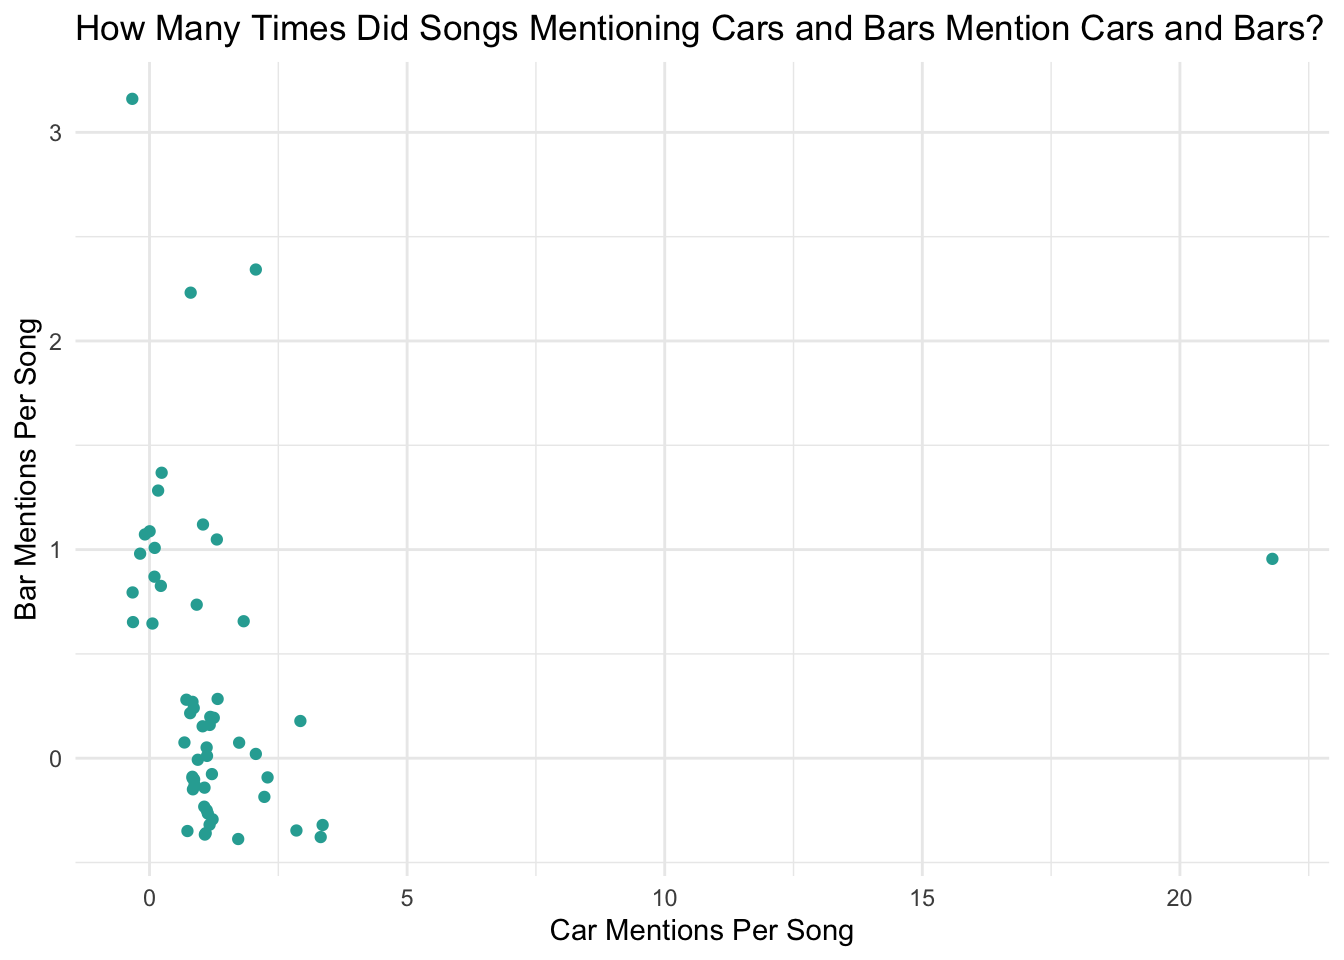
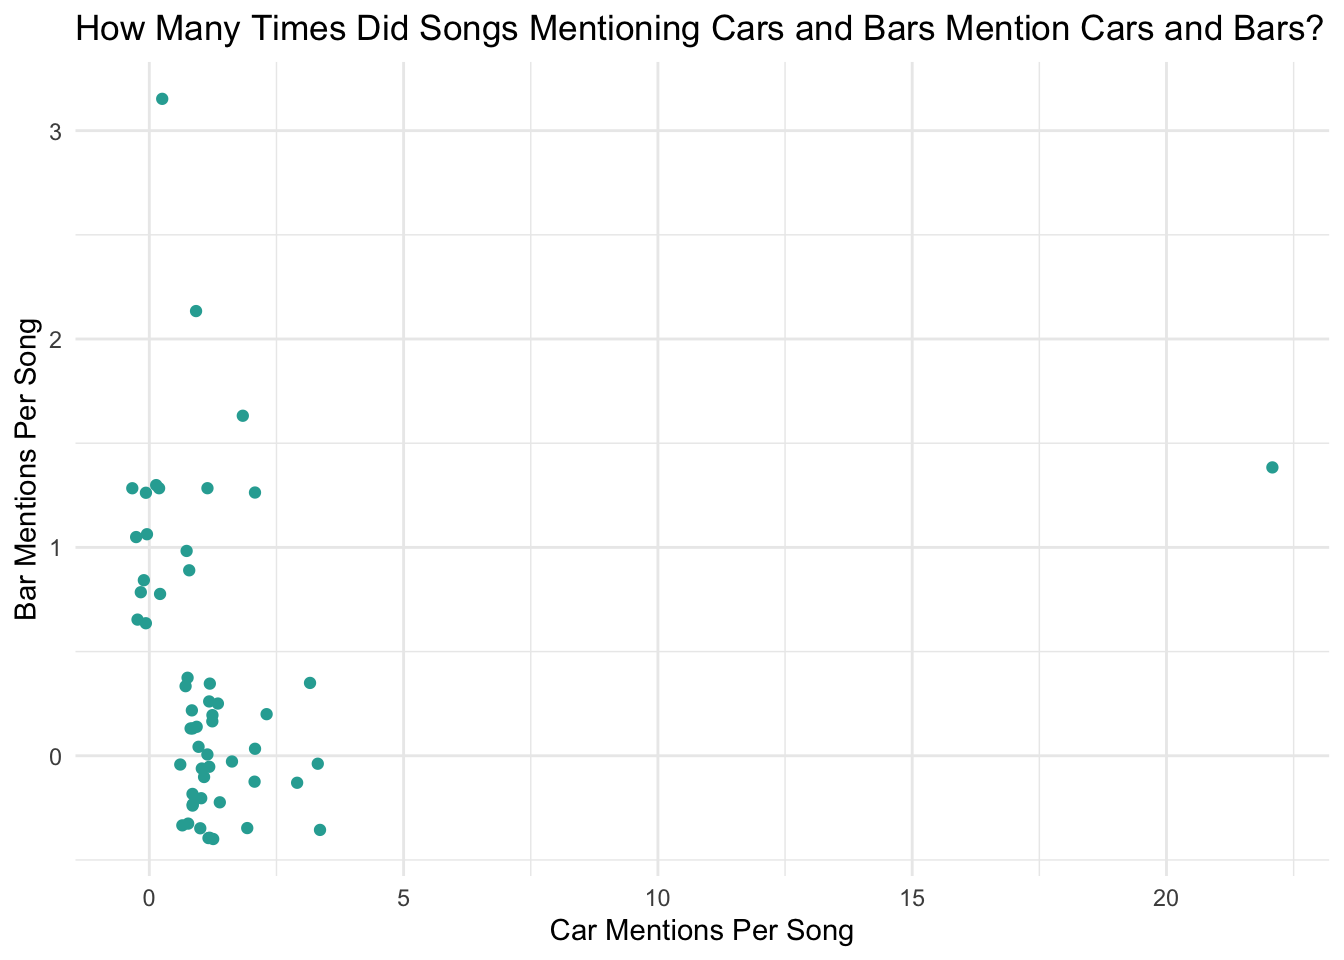
I'm realizing the 4 paragraphs might not've been per item...

diff --git a/docs/project4.html b/docs/project4.html
@@ -107,6 +107,10 @@ ul.task-list li input[type="checkbox"] {
     <a class="nav-link" href="./project3.html"> 
 <span class="menu-text">Avoiding Meat at Pomona</span></a>
   </li>  
+  <li class="nav-item">
+    <a class="nav-link active" href="./project4.html" aria-current="page"> 
+<span class="menu-text">Emotional Contagion Test Ethics</span></a>
+  </li>  
   <li class="nav-item dropdown ">
     <a class="nav-link dropdown-toggle" href="#" id="nav-menu-data-viz" role="link" data-bs-toggle="dropdown" aria-expanded="false">
  <span class="menu-text">Data Viz</span>
@@ -157,22 +161,40 @@ ul.task-list li input[type="checkbox"] {
 
 
 <p><strong>Introduction</strong></p>
-<p>In 2012, “emotional contagion” was a well-documented phenomenon where people would transfer positive or negative emotions to each other through in-person interactions, without either person necessarily being aware of this transfer. As social media was becoming more mainstream, in January 2012, Facebook was interested in if emotional contagion could be spread through news feeds on their platform, without the need for in-person interactions.</p>
-<p>To investigate this, Facebook ran an experiment to test how reducing either positive or negative content on someone’s news feed affected the content that they posted. Facebook randomly selected 689,003 users to run two parallel experiments. Half of the users were used for the first experiment. Half of this experiment’s users were in the treatment group, where a user’s friends’ posts with at least one positive word had a 90% chance of not showing up on the user’s feed, and a user’s friends’ posts with at least one negative word had a 10% chance of not showing up on the user’s feed. The other half were the control group, where a similar amount of posts were ommitted from the news feed regardless of whether they were deemed as positive or negative. In the second experiment, half of the second experiment’s users were in the treatment group, where a user’s friends’ posts with at least one negative word had a 90% chance of not showing up on the user’s feed, and a user’s friends’ posts with at least one positive word had a 10% chance of not showing up on the user’s feed. The other half were the control group where a similar number of posts were removed from the user’s news feed (each experiment needed its own control group because more posts were ommitted in the experiment where 90% of positive posts were ommitted for the treatment group).</p>
-<p>For one week in January 2014, Facebook researchers recorded everything these users posted, and calculated the percentage of words that were positive or negative. At the end of the experimental, they found that those in the first experiment who had positive content on their feed reduced had more negative emotional expression compared to their control group, and those in the second experiment who had negative content on their feed reduced had more positive emotional expression compared to control group. Both of these changes had p-values of P &lt; 0.001, providing strong evidence that emotional contagion could be spread online via the content someone sees. Facebook researchers compiled this information and published these findings in the PNAS scientific journal in July 2014.</p>
-<p>Though this type of study is helpful, as Facebook should be aware of how its content affects its users, one could be concerned about whether this data was collected ethically.</p>
+<p>In 2012, “emotional contagion” was a well-documented phenomenon where people would transfer positive or negative emotions to each other through in-person interactions. As social media was becoming more mainstream, in January 2012, Facebook was interested in if emotional contagion could also be spread through news feeds on their platform.</p>
+<p>To investigate this, Facebook randomly selected 689,003 users, split them into treatment and control groups, and omitted a large amount of posts with positive or negative words on the news feeds for those in the treatment groups. Facebook omitted a similar amount of posts in the news feeds for those in the control group, but omitted posts randomly, without considering if the post contained positive or negative words.</p>
+<p>For one week in January 2012, Facebook researchers recorded every word these users posted, and calculated the percentage that were positive or negative. At the end of the experiment, they found that those who had positive content on their feed reduced had more negative emotional expression compared to their control group, and those who had negative content on their feed reduced had more positive emotional expression compared to their control group. Both of these experiments had p-values of P &lt; 0.001, providing strong evidence that emotional contagion could be spread online via the content someone sees. Facebook researchers compiled this information and published these findings in the PNAS scientific journal in July 2014.</p>
+<p>Thus, this study involved gathering data on 689,003 users to determine how content someone sees influences their emotional expression. Though this type of study is helpful, as Facebook should be aware of how its content affects its users, one could be concerned about whether this data was collected ethically, and how Facebook has been using the data since.</p>
 <p><strong>Was informed consent possible?</strong></p>
-<p>The day after the article was published, PNAS published an Editorial Expression of Concern about potential personal privacy issues. The journal explained that though it is generally best practice to make sure participants have given informed consent to participate in scientific research based on the “Common Rule” set by the US Department of Health and Human Services Policy for the Protection of Human Research Subjects, they stated that “as a private company Facebook was under no obligation to conform to the provisions of the Common Rule when it collected the data used by the authors” (2). The journal also cited the original authors’ claim that the experiment was consistent with Facebook’s Data Use Policy, which all users agreed to when creating an account.</p>
-<p>According to an article from The Guardian published July 2012, Facebook’s Data Use Policy did have a section on how they “may use the information we receive about you” prior to the study being conducted in January 2012. This section had examples of how data might be used, however, “research” was only explicitly mentioned in this section four months after the study concluded (before the research paper was published). Thus, if one believes that a user must explicitly consent to having their data used for research purposes, this would not include users in the study who had agreed to the previous Data Use Policy.</p>
-<p>Furthermore, I think it’s a fair assumption that people do not generally read terms and conditions. (Though one might argue people should!) A study by the Pew Research Center found that only 9% of American adults always read privacy policy before agreeing, and a majority of Americans self-report very little to no understanding of data protection laws. Thus, even if research were explicitly mentioned, though Facebook might be able to argue in court that they did nothing wrong, ethics should not be built on technicalities, and the fact that users’ “informed consent” is derived from them clicking a button “agreeing” to terms and conditions they likely did not read provides further reasons to doubt this whether this data was collected ethically.</p>
+<p>The day after the article was published, PNAS published an Editorial Expression of Concern about potential personal privacy issues. The journal explained that it is generally best practice to make sure participants have given informed consent to participate in scientific research based on the “Common Rule” set by the US Department of Health and Human Services Policy for the Protection of Human Research Subject (2). It is not right to experiment on people who have not agreed to be tested on.</p>
+<p>However, PNAS stated that “as a private company Facebook was under no obligation to conform to the provisions of the Common Rule when it collected the data used by the authors” (2). The journal also cited the original authors’ claim that the experiment was consistent with Facebook’s Data Use Policy, which all users agreed to when creating an account.</p>
+<p>According to an article from The Guardian published July 2012, Facebook’s Data Use Policy did have a section on how they “may use the information we receive about you” prior to the study being conducted in January 2012. This section had examples of how data might be used, however, “research” was only explicitly mentioned in this section four months after the study concluded (before the research paper was published) (3). Thus, if one believes that a user must explicitly consent to having their data used for research purposes, this would not include users in the study who had agreed to the previous Data Use Policy.</p>
+<p>Furthermore, a study by the Pew Research Center found that only 9% of American adults always read privacy policy before agreeing, and a majority of Americans self-report very little to no understanding of data protection laws (4). Thus, even if research were explicitly mentioned, though Facebook might be able to argue in court that they did nothing wrong, ethics should not be built on technicalities, and the fact that users’ “informed consent” is derived from them clicking a button “agreeing” to terms and conditions they likely did not read futher highlights the dubious nature of users’ “informed consent.”</p>
 <p><strong>Who was measured?</strong></p>
-<p>Based on the article published by the Facebook researchers, out of all Facebook users, the 689,003 users were randomly selected for participation by their User IDs. They were also randomly split into four groups for the two experiments. There were roughly 155,000 users in each group who had posted at least one status that week, meaning that the only possible selection bias in this study came from the fact that not everyone who was selected posted any status updates, meaning that emotional contagion was only tracked for people who actively post on Facebook (about 89% of those selected). However, I believe the only way to increase the number of selected users who post would be to have some kind of filtering system to exclude inactive accounts. Since this would make selection not completely random, it could introduce a different kind of bias. Also, those who do not post on Facebook are likely not the primary interest of this study. Thus, I think this way of randomly selecting users and needing to omit those who did not post is a great way to ensure everyone who posts on Facebook is represented in the results.</p>
-<p>Though great for representation, I am not sure if everyone should have been included in this study due to the harms it could have caused them. Some people have health conditions such that their emotional states are dramatically affected by online content. Thus, if one of these individuals were included in the study, seeing negative content could have harmed them more than the average person. Though Facebook may have been interested in collecting their data in hopes of learning how to protect these individuals in the future, it seems like no precautions were put in place to ensure that doing this study wouldn’t hurt those with mood disorders, minors, or anyone else especially vulnerable to manipulation by this study.</p>
+<p>If Facebook were interested in determining how emotional contagion spread through its active users, it should make sure that the experiment was representative of all of them. Experiments should also make sure that everyone measured is not harmed by the study, and take precautions to protect those who could be at greater risk of harm.</p>
+<p>Based on the article published by the Facebook researchers, out of all Facebook users, the 689,003 users were randomly selected for participation by their User IDs. They were also randomly split into four groups for the two experiments. There were roughly 155,000 users in each group who had posted at least one status that week, meaning that the only possible selection bias in this study came from the fact that not everyone who was selected posted any status updates, meaning that emotional contagion was only tracked for people who actively post on Facebook (about 89% of those selected) (1). However, I believe the only way to increase the number of selected users who post would be to have some kind of filtering system to exclude inactive accounts. Since this would make selection not completely random, it could introduce a different kind of bias. Also, those who do not post on Facebook may not be active users, and thus are not be the primary target of this study. Thus, I think randomly selecting from all users and omitting those who did not post is a great way to ensure everyone who posts on Facebook is represented in the results.</p>
+<p>Though great for representation, I am not sure if everyone should have been included in this study. Some people have health conditions such that their emotional states are dramatically affected by online content. Thus, if one of these individuals were included in the study, seeing negative content could have seriously harmed them.</p>
+<p>Since this study was aimed at Facebook users at large, I do not believe omitting these users would have severely reduced the claims Facebook could make. If Facebook were specifically interested in users who are especially vulnerable to being harmed by seeing negative online content, a study designed specifically for them with guardrails in place to ensure that their specific needs are accounted for would make more sense.</p>
+<p><strong>Were the data made publicly available?</strong></p>
+<p>Frequently with online data, people are concerned about published experiments leaking sensitive personal information. Though studies aim to answer a research question for the public, the people tested in the study deserve privacy, and should not suffer from people targeting them due to information released by the study.</p>
+<p>The data collected in this experiment was the percentage of words users posted that were positive or negative. According to the original paper “no text was seen by the researchers” (1). The paper did not publish individual users’ percentage of positive or negative words. The paper only included graphs comparing the average percentage of words that were positive or negative for each of the four groups. Thus, identifiable data that could be used to determine an individual’s tendency to be affected by emotional online content was never released to the public by this study. The ethical concerns with this data collection lie in the process of collecting the data, not the privacy concerns of release of it.</p>
+<p>However, the general story that the research told showed how humans are susceptible to emotional manipulation by algorithms, and was made clear to the public when Facebook released their paper. So though individuals could not be targeted as a result of the data Facebook released, someone intending to do harm may have been able to come up with new ways to target people as a collective based on this paper’s findings.</p>
+<p><strong>Is the data being used in unintended ways to the original study?</strong></p>
+<p>Though a study could intend to do good by releasing a data set, they should be cognizant of how bad actors could use their data to do harm.</p>
+<p>In Facebook’s emotional contagion case, it is unclear what their original intentions were. Given the lack of well-researched information about how social media platforms affected users in 2012, one generous interpretation is that Facebook was interested in how its users were affected so that the platform could be conscious of its power and identify how best to curate a user’s feed to avoid doing harm.</p>
+<p>If this were a reasonable interpretation in 2012, since then, this idea of manipulating users through online content has grown to inspire a profit-driven, undeniably exploitative algorithm that uses individuals’ data to curate their feeds and keep them on the site as long as possible, even in spite of their well-being. When former Facebook employee Frances Haugen testified in the Senate in 2020, she spoke about this, and added that Facebook is aware its algorithm amplifies body insecurities in children and can lead to real-world violence (5). Though Facebook never claimed exactly what their intentions were with the original study, it is clear that since then, Meta has used what it has learned about its ability to affect its users for maximizing profit despite doing harm.</p>
+<p>Thus, though we cannot claim whether data is being used in unintended ways, we can definitely claim it is not being used in ethical ways. I think this makes the concern over unintended applications is less relevant, since Meta themselves are collecting data for harmful purposes.</p>
+<p><strong>Conclusion</strong></p>
+<p>On the data science side, this study seemed to do effective investigative work. Facebook researchers successfully gathered data to answer a specific research question and included all users they hoped to gain insights about. From an ethical perspective, it seems Facebook did not take many precautions to ensure gathering this data would not cause harm. Furthermore, they seem to be using the information they received (and continue to receive through continuous similar experiments) primarily to maximize profits. Users do not seem to be Meta’s primary customers. Instead, user engagement is the commodity sold to advertisers. In 2012, this experiment was criticized by the public as “inherently dehumanizing,” (6) which seems to ring even more true now. Users are kept uninformed, Meta does experiments to learn more about them, and uses the results to profit at the user’s expense. Though this is not an easily defensible business model from an ethics perspective, Meta seems to continue to get away with this because their collection of our data has allowed them to create incredibly well-curated feeds capable of capturing a wide range of people potentially against their true wishes. We should take these studies as a cautionary reminder that the fact that data can be collected doesn’t necessarily mean it should be.</p>
 <p><strong>References</strong></p>
-<p>A.D.I. Kramer, J.E. Guillory, &amp; J.T. Hancock, Experimental evidence of massive-scale emotional contagion through social networks, Proc. Natl. Acad. Sci. U.S.A. 111 (24) 8788-8790, https://doi.org/10.1073/pnas.1320040111 (2014).</p>
-<p>Editorial Expression of Concern: Experimental evidence of massivescale emotional contagion through social networks, Proc. Natl. Acad. Sci. U.S.A. 111 (29) 10779-10779, https://doi.org/10.1073/pnas.1412469111 (2014).</p>
-<p>https://www.theguardian.com/technology/2014/jul/01/facebook-data-policy-research-emotion-study</p>
-<p>https://www.pewresearch.org/internet/2019/11/15/americans-attitudes-and-experiences-with-privacy-policies-and-laws/</p>
+<ol type="1">
+<li><p>A.D.I. Kramer, J.E. Guillory, &amp; J.T. Hancock, Experimental evidence of massive-scale emotional contagion through social networks, Proc. Natl. Acad. Sci. U.S.A. 111 (24) 8788-8790, https://doi.org/10.1073/pnas.1320040111 (2014).</p></li>
+<li><p>Editorial Expression of Concern: Experimental evidence of massivescale emotional contagion through social networks, Proc. Natl. Acad. Sci. U.S.A. 111 (29) 10779-10779, https://doi.org/10.1073/pnas.1412469111 (2014).</p></li>
+<li><p>“Facebook T&amp;CS Introduced ‘research’ Policy Months after Emotion Study.” The Guardian, Guardian News and Media, 1 July 2014, www.theguardian.com/technology/2014/jul/01/facebook-data-policy-research-emotion-study.</p></li>
+<li><p>Auxier, Brooke, et al.&nbsp;“4. Americans’ Attitudes and Experiences with Privacy Policies and Laws.” Pew Research Center, Pew Research Center, 15 Nov.&nbsp;2019, www.pewresearch.org/internet/2019/11/15/americans-attitudes-and-experiences-with-privacy-policies-and-laws/.</p></li>
+<li><p>Allyn, Bobby. “Here Are 4 Key Points from the Facebook Whistleblower’s Testimony on Capitol Hill.” NPR, NPR, 6 Oct.&nbsp;2021, www.npr.org/2021/10/05/1043377310/facebook-whistleblower-frances-haugen-congress.</p></li>
+<li><p>Colorado, cmci.colorado.edu/~cafi5706/UnexpectedExpectationsNMSPreprint.pdf. Accessed 25 Nov.&nbsp;2026.</p></li>
+</ol>
 
 
 

diff --git a/docs/project3.html b/docs/project3.html
@@ -142,6 +142,10 @@ pre > code.sourceCode > span > a:first-child::before { text-decoration: underlin
     <a class="nav-link active" href="./project3.html" aria-current="page"> 
 <span class="menu-text">Avoiding Meat at Pomona</span></a>
   </li>  
+  <li class="nav-item">
+    <a class="nav-link" href="./project4.html"> 
+<span class="menu-text">Emotional Contagion Test Ethics</span></a>
+  </li>  
   <li class="nav-item dropdown ">
     <a class="nav-link dropdown-toggle" href="#" id="nav-menu-data-viz" role="link" data-bs-toggle="dropdown" aria-expanded="false">
  <span class="menu-text">Data Viz</span>

diff --git a/docs/project2.html b/docs/project2.html
@@ -142,6 +142,10 @@ pre > code.sourceCode > span > a:first-child::before { text-decoration: underlin
     <a class="nav-link" href="./project3.html"> 
 <span class="menu-text">Avoiding Meat at Pomona</span></a>
   </li>  
+  <li class="nav-item">
+    <a class="nav-link" href="./project4.html"> 
+<span class="menu-text">Emotional Contagion Test Ethics</span></a>
+  </li>  
   <li class="nav-item dropdown ">
     <a class="nav-link dropdown-toggle" href="#" id="nav-menu-data-viz" role="link" data-bs-toggle="dropdown" aria-expanded="false">
  <span class="menu-text">Data Viz</span>
